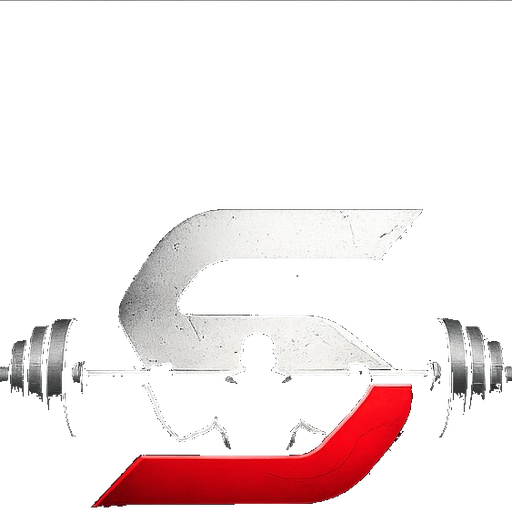
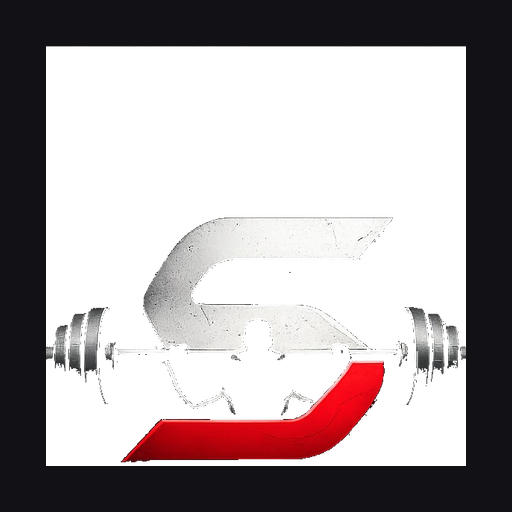
fix(seo): resolve OG image URL for WhatsApp link previews
Ignore stale vercel.app env vars and use VERCEL_URL for metadataBase so
og:image loads from the live deployment; darken apple-icon fallback.

diff --git a/src/lib/seo.ts b/src/lib/seo.ts
@@ -1,12 +1,31 @@
 import type { Metadata } from 'next';
 
+/** Canonical site URL for SEO/OG — ignores stale *.vercel.app env when VERCEL_URL is set. */
+export function getSiteUrl(): string {
+  const fromEnv = (
+    process.env.NEXT_PUBLIC_SITE_URL ??
+    process.env.NEXT_PUBLIC_APP_URL
+  )
+    ?.trim()
+    .replace(/\/$/, '');
+
+  // Custom domain (sthir.in) wins over Vercel preview URLs
+  if (fromEnv && !fromEnv.includes('vercel.app')) {
+    return fromEnv;
+  }
+
+  const vercelHost = process.env.VERCEL_URL?.replace(/^https?:\/\//, '');
+  if (vercelHost) {
+    return `https://${vercelHost}`;
+  }
+
+  return fromEnv ?? 'https://sthir.in';
+}
+
 export const siteConfig = {
   name: 'Sthir',
   tagline: 'Strength · Training · Human-In · Reviewed',
-  url:
-    process.env.NEXT_PUBLIC_SITE_URL ??
-    process.env.NEXT_PUBLIC_APP_URL ??
-    'https://sthir.in',
+  url: getSiteUrl(),
   description:
     'Coach-reviewed strength & powerlifting programs delivered in 12 hours. Meet prep, powerbuilding, and general strength — built for Indian athletes.',
   keywords: [
@@ -63,10 +82,11 @@ export function pageMetadata({
       description,
       images: [
         {
-          url: defaultOgImage.path,
+          url: absoluteUrl(defaultOgImage.path),
           width: defaultOgImage.width,
           height: defaultOgImage.height,
           alt: defaultOgImage.alt,
+          type: 'image/png',
         },
       ],
     },
@@ -74,7 +94,7 @@ export function pageMetadata({
       card: 'summary_large_image',
       title: `${title} | ${siteConfig.name}`,
       description,
-      images: [defaultOgImage.path],
+      images: [absoluteUrl(defaultOgImage.path)],
     },
   };
 }
@@ -102,10 +122,11 @@ export const rootMetadata: Metadata = {
     description: siteConfig.description,
     images: [
       {
-        url: defaultOgImage.path,
+        url: absoluteUrl(defaultOgImage.path),
         width: defaultOgImage.width,
         height: defaultOgImage.height,
         alt: defaultOgImage.alt,
+        type: 'image/png',
       },
     ],
   },
@@ -113,7 +134,7 @@ export const rootMetadata: Metadata = {
     card: 'summary_large_image',
     title: `${siteConfig.name} — ${siteConfig.tagline}`,
     description: 'Coach-reviewed strength programs for India.',
-    images: [defaultOgImage.path],
+    images: [absoluteUrl(defaultOgImage.path)],
   },
 };
 